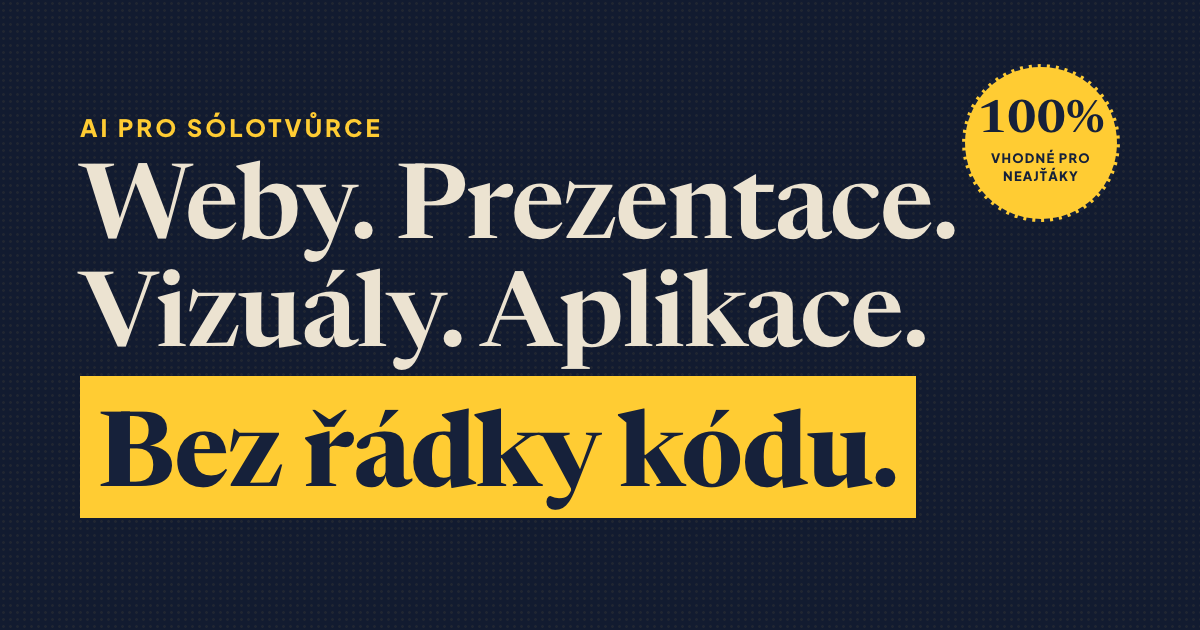
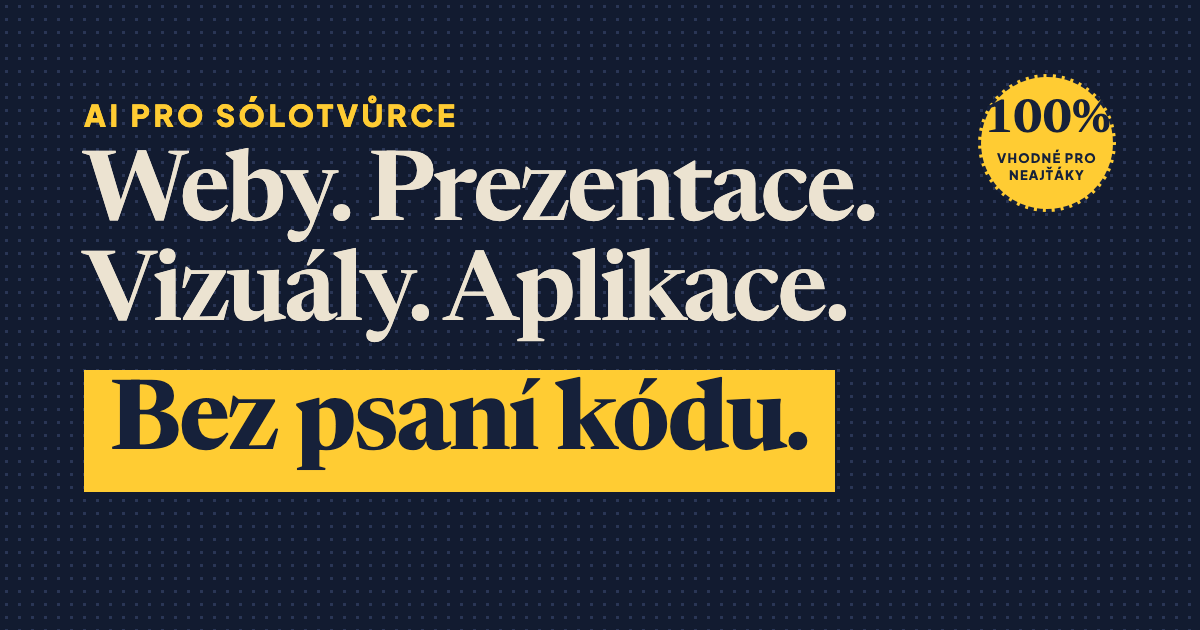
Web: slogan „bez psaní kódu" místo „bez řádky kódu" + úpravy textů a OG obrázku
- Hero, meta, OG, Twitter, JSON-LD: slogan sjednocen na „Bez psaní kódu"
  (kód v projektu vždy je, jen ho uživatel nepíše); osobní výroky
  „ani řádku kódu" ponechány beze změny
- Výstup „Web a landing page": text o navajbení a vyladění u kafe
- Výstup „Texty": přeřazeno na blog/newsletter/LinkedIn + víc výstupů z podkladu
- og-image.png přegenerován se sloganem „Bez psaní kódu"

Changed region(s): [[0.0617, 0.0905, 0.9558, 0.8444]]

diff --git a/index.html b/index.html
@@ -4,7 +4,7 @@
   <meta charset="UTF-8" />
   <meta name="viewport" content="width=device-width, initial-scale=1.0" />
   <title>AI pro sólotvůrce – online kurz vibecodingu pro netechniky</title>
-  <meta name="description" content="Online kurz AI pro sólotvůrce, kteří nikdy neprogramovali. Vytvoříte weby, prezentace i vizuály – bez řádky kódu. Mac i Windows, a k tomu komunita." />
+  <meta name="description" content="Online kurz AI pro sólotvůrce, kteří nikdy neprogramovali. Vytvoříte weby, prezentace i vizuály – bez psaní kódu. Mac i Windows, a k tomu komunita." />
   <meta name="author" content="Hadoš s.r.o." />
   <meta name="seznam-wmt" content="hsbuMjKmVEqEd6Bph0PxZRTEgH0pHJa7" />
   <meta name="theme-color" content="#121b30" />
@@ -14,23 +14,23 @@
   <meta property="og:type" content="website" />
   <meta property="og:url" content="https://solotvurci.cz" />
   <meta property="og:title" content="AI pro sólotvůrce – online kurz vibecodingu pro netechniky" />
-  <meta property="og:description" content="Weby. Aplikace. Prezentace. Vizuály. Bez řádky kódu. Online kurz pro sólotvůrce, kteří nikdy neprogramovali." />
+  <meta property="og:description" content="Weby. Aplikace. Prezentace. Vizuály. Bez psaní kódu. Online kurz pro sólotvůrce, kteří nikdy neprogramovali." />
   <meta property="og:locale" content="cs_CZ" />
   <meta property="og:site_name" content="AI pro sólotvůrce" />
   <meta property="og:image" content="https://solotvurci.cz/og-image.png" />
   <meta property="og:image:width" content="1200" />
   <meta property="og:image:height" content="630" />
-  <meta property="og:image:alt" content="AI pro sólotvůrce – Weby. Prezentace. Vizuály. Aplikace. Bez řádky kódu." />
+  <meta property="og:image:alt" content="AI pro sólotvůrce – Weby. Prezentace. Vizuály. Aplikace. Bez psaní kódu." />
   <meta name="twitter:card" content="summary_large_image" />
   <meta name="twitter:title" content="AI pro sólotvůrce – online kurz vibecodingu pro netechniky" />
-  <meta name="twitter:description" content="Weby. Aplikace. Prezentace. Vizuály. Bez řádky kódu. Online kurz pro sólotvůrce, kteří nikdy neprogramovali." />
+  <meta name="twitter:description" content="Weby. Aplikace. Prezentace. Vizuály. Bez psaní kódu. Online kurz pro sólotvůrce, kteří nikdy neprogramovali." />
   <meta name="twitter:image" content="https://solotvurci.cz/og-image.png" />
   <script type="application/ld+json">
   {
     "@context": "https://schema.org",
     "@type": "Course",
     "name": "AI pro sólotvůrce",
-    "description": "Online kurz vibecodingu pro netechniky – s AI si bez řádky kódu vytvoříte weby, prezentace, vizuály i dokumenty.",
+    "description": "Online kurz vibecodingu pro netechniky – s AI si bez psaní kódu vytvoříte weby, prezentace, vizuály i dokumenty.",
     "url": "https://solotvurci.cz/",
     "inLanguage": "cs",
     "provider": {
@@ -408,7 +408,7 @@
       <h1>
         <span class="line">Weby. Vizuály.</span>
         <span class="line">Prezentace.</span>
-        <span class="line"><span class="mark">Bez řádky kódu.</span></span>
+        <span class="line"><span class="mark">Bez psaní kódu.</span></span>
       </h1>
       <!-- TIP: sem se hodí váš vlastní rukopis (sken) -->
       <p class="hero-sub">Online kurz pro sólotvůrce, kteří nikdy neprogramovali. Prošlapali jsme tu cestu před vámi&nbsp;– a&nbsp;teď vám k&nbsp;ní dáme mapu.</p>
@@ -452,11 +452,11 @@
     <p class="lead" style="margin-bottom:40px;">Tohle je jenom pár vybraných tipů, ne celý výčet. Tipy, co si díky kurzu vytvořit, neustále přibývají.</p>
 
     <div class="index">
-      <div class="irow"><svg class="ic" viewBox="0 0 48 48"><use href="#d-web"/></svg><div><h3>Web a&nbsp;landing page</h3><p>„Web bych nikdy nepostavil.&#8220; A&nbsp;přitom ho navajbujete rovnou ze zadání. Právě tady vám spadne brada.</p></div></div>
+      <div class="irow"><svg class="ic" viewBox="0 0 48 48"><use href="#d-web"/></svg><div><h3>Web a&nbsp;landing page</h3><p>„Web bych nikdy nepostavil.&#8220; A&nbsp;přitom ho navajbujete a&nbsp;vyladíte u&nbsp;kafe. Z&nbsp;toho vám spadne brada.</p></div></div>
       <div class="irow"><svg class="ic" viewBox="0 0 48 48"><use href="#d-slides"/></svg><div><h3>Prezentace</h3><p>Interaktivní slajdy nebo PDF z&nbsp;vašich poznámek. Pro učitele i&nbsp;marketéry parádní zkratka.</p></div></div>
       <div class="irow"><svg class="ic" viewBox="0 0 48 48"><use href="#d-img"/></svg><div><h3>Obrázky a&nbsp;vizuály</h3><p>Ilustrace a&nbsp;infografiky přes napojení na&nbsp;generátor obrázků – i&nbsp;úpravy vlastních fotek.</p></div></div>
       <div class="irow"><svg class="ic" viewBox="0 0 48 48"><use href="#d-doc"/></svg><div><h3>Dokumenty z&nbsp;dat</h3><p>Daňové podklady, evidence i&nbsp;výpisy z&nbsp;vlastních souborů. Papírování bez nervů.</p></div></div>
-      <div class="irow"><svg class="ic" viewBox="0 0 48 48"><use href="#d-text"/></svg><div><h3>Texty</h3><p>LinkedIn post, newsletter, článek na&nbsp;blog. Z&nbsp;jednoho podkladu víc výstupů – a&nbsp;myšlenky zůstávají pořád vaše.</p></div></div>
+      <div class="irow"><svg class="ic" viewBox="0 0 48 48"><use href="#d-text"/></svg><div><h3>Texty</h3><p>Článek na&nbsp;blog, newsletter nebo&nbsp;linkedinový post. Z&nbsp;jednoho podkladu budete mít víc výstupů – a&nbsp;myšlenky jsou pořád vaše.</p></div></div>
       <div class="irow"><svg class="ic" viewBox="0 0 48 48"><use href="#d-tag"/></svg><div><h3>Vlastní nástroje místo předplatných</h3><p>Spoustu placených appek si navajbujete sami – přesně jako my. A&nbsp;měsíční předplatná, co se nasčítají, můžete škrtnout.</p></div></div>
     </div>
 